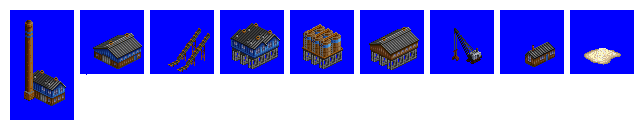
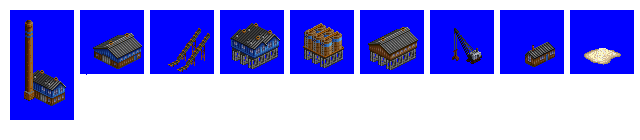
Change: graphical tweaks to nitrate mine

Changed region(s): [[0.4688, 0.1714, 0.6562, 0.5143]]

diff --git a/src/industries/nitrate_mine.py b/src/industries/nitrate_mine.py
@@ -101,7 +101,7 @@ sprite_smoke_1 = industry.add_smoke_sprite(
     smoke_type = 'white_smoke_big',
     xoffset= 8,
     yoffset= 2,
-    zoffset= 71,
+    zoffset= 70,
 )
 
 industry.add_spritelayout(
